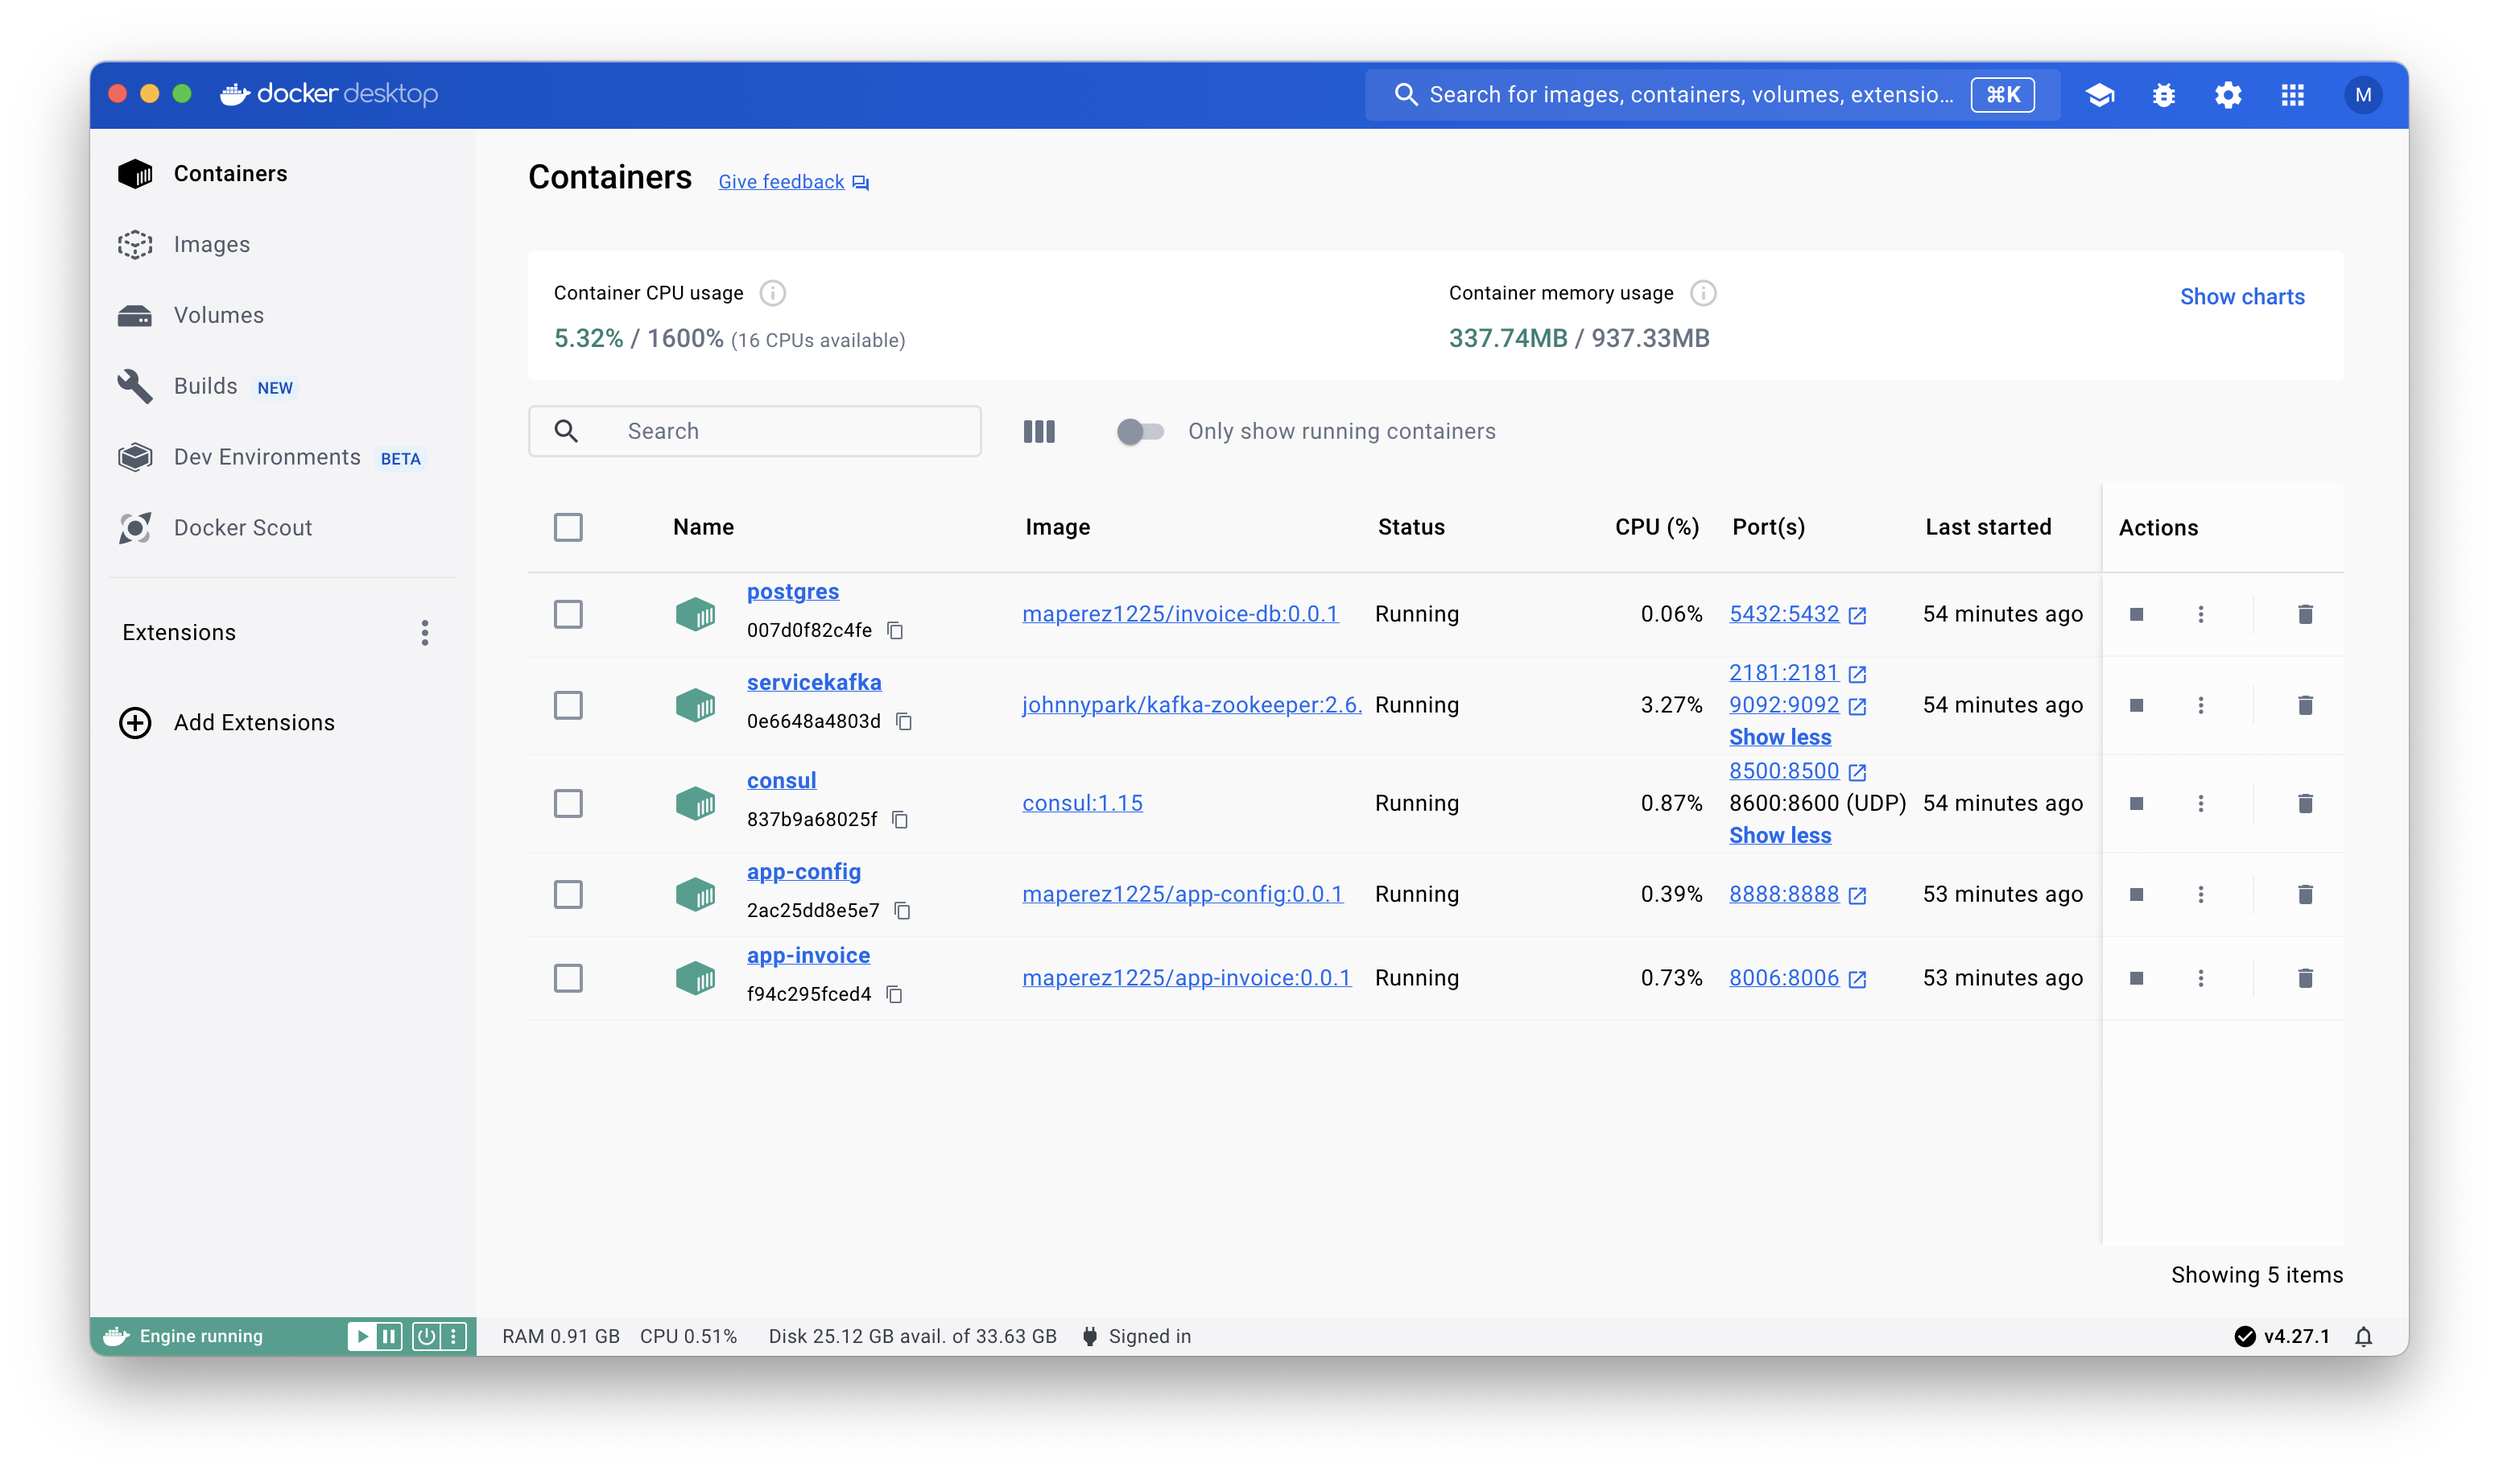
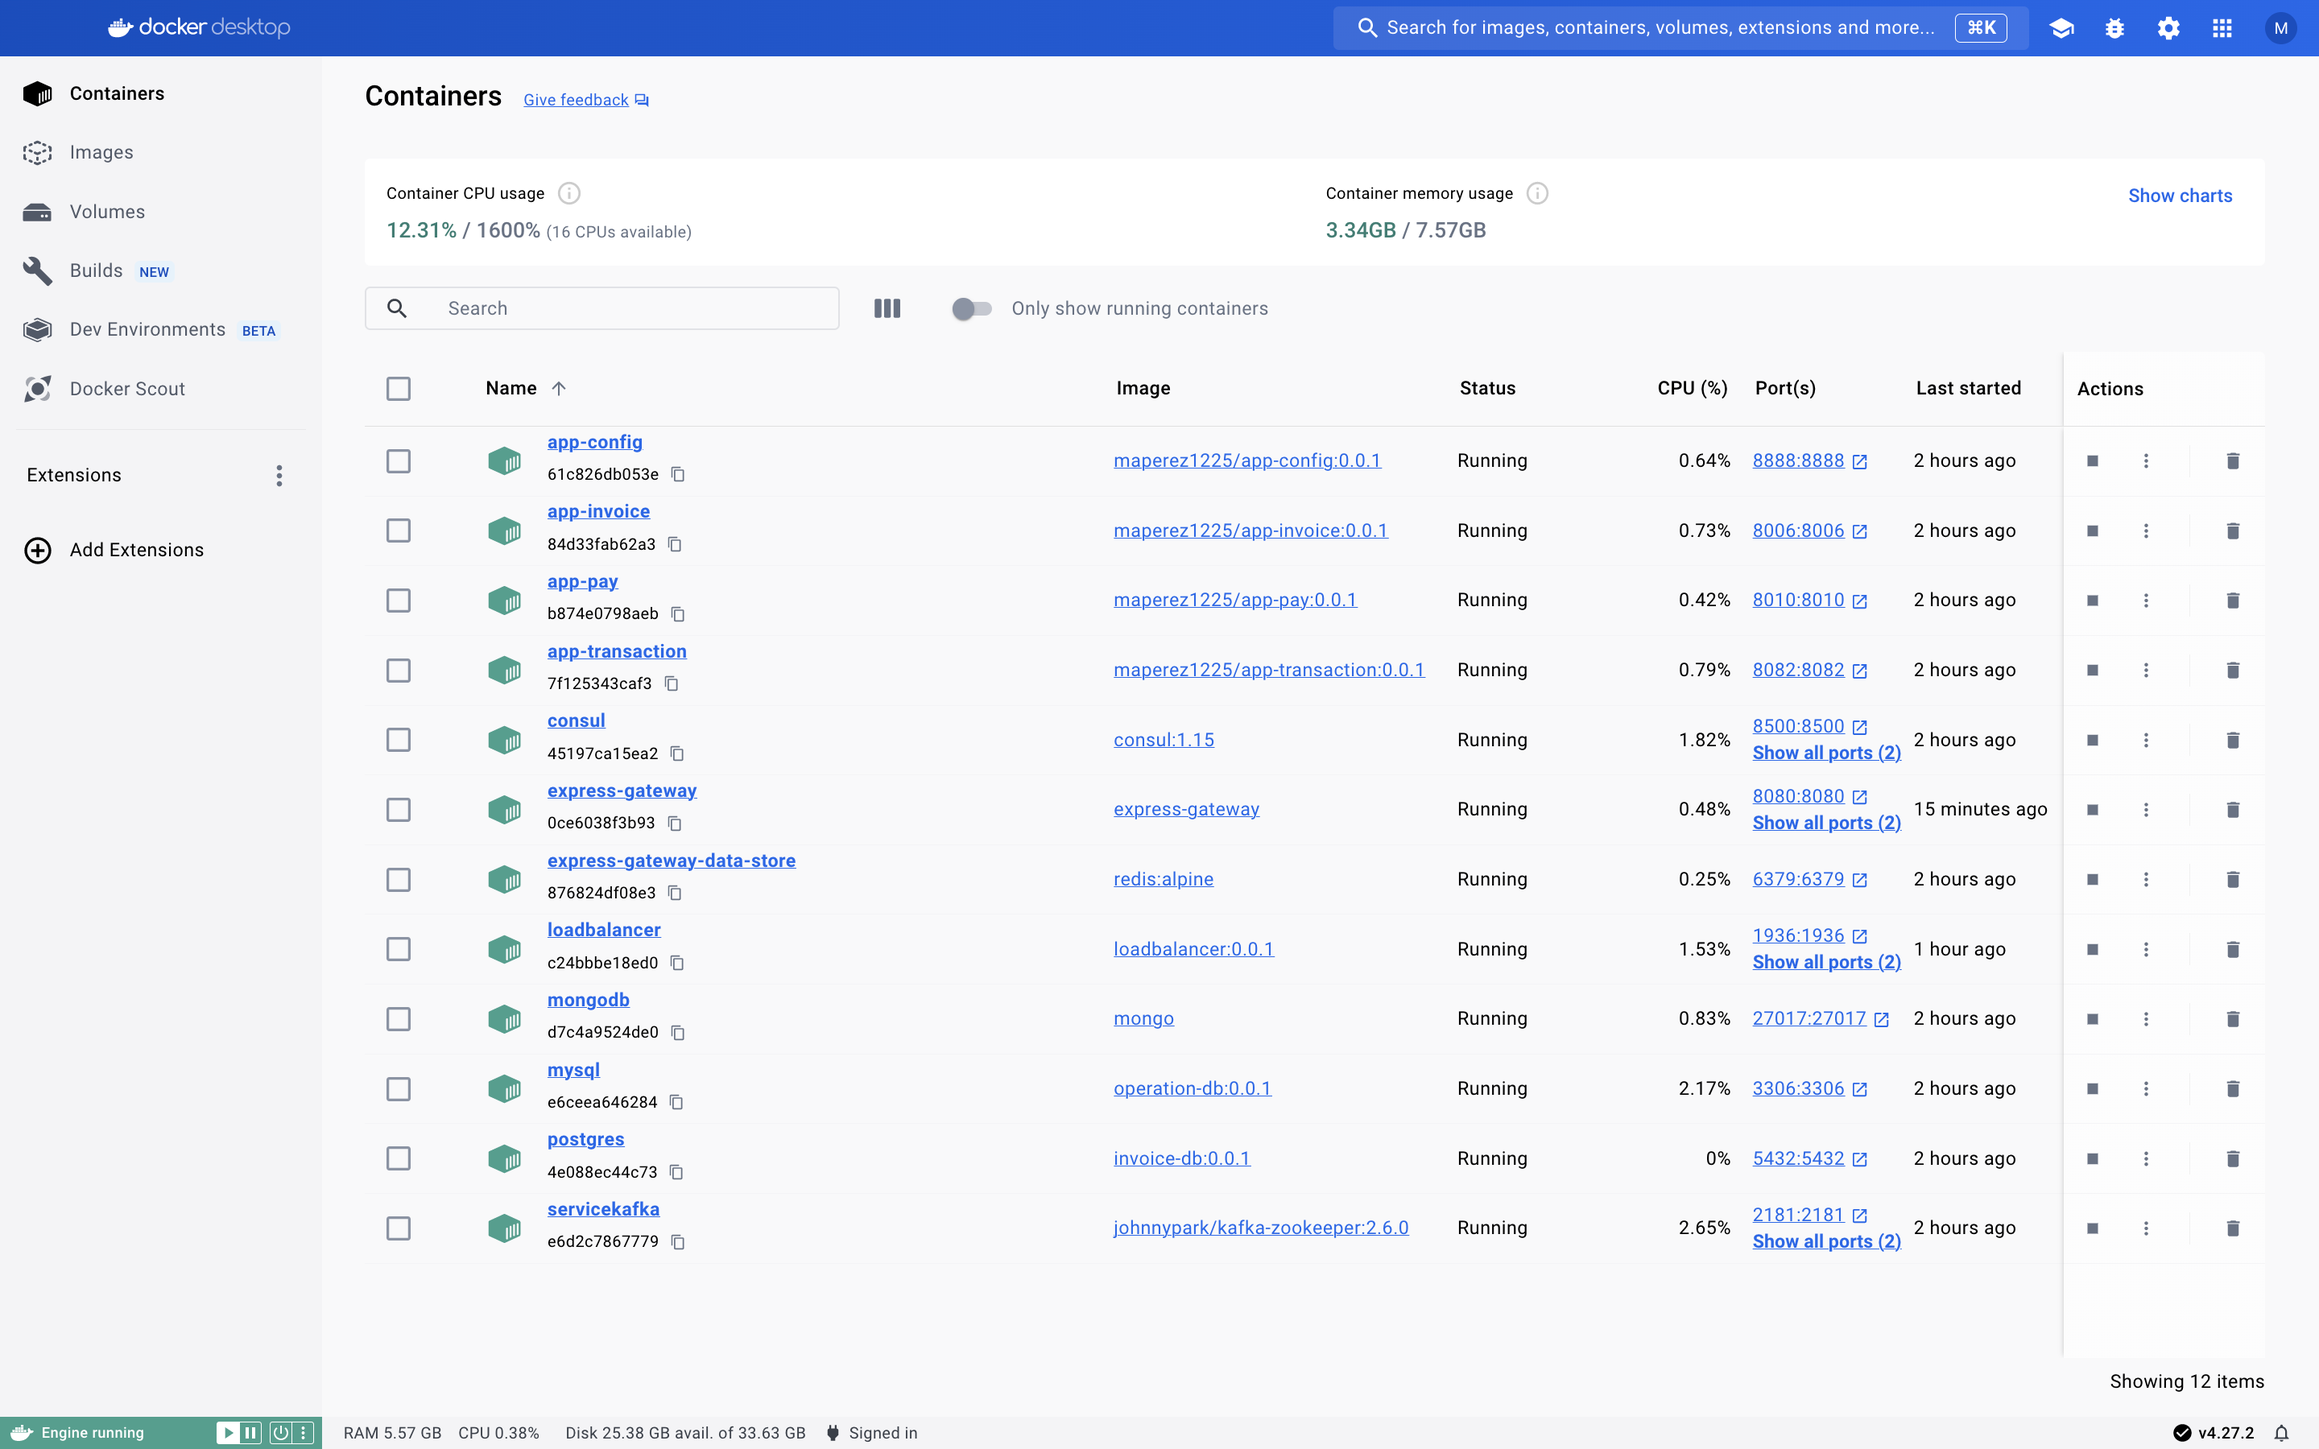
App gateway documentation

diff --git a/README.md b/README.md
@@ -4,10 +4,24 @@ Create load balancer image in haproxy/
 `docker build -t loadbalancer:0.0.1 .`
 
 Run redis db for app gateway
+
 `docker run -d --rm -p 6379:6379 --network distribuidos --name express-gateway-data-store redis:alpine`
 
 Run app gateway
 
+`docker run -d --rm --name express-gateway --network distribuidos -p 8080:8080 -p 9876:9876 -v ./appgw:/var/lib/eg express-gateway`
+
+Obtain API key from Express Gateway terminal
+
+`eg credentials create -c [user] -t key-auth -q`
+
+Curl API endpoint with key
+
+`curl -H "Authorization: apiKey ${keyId}:${keySecret}" http://localhost:8080/config/app-pay/dev`
+![alt text](resources/appgw.png)
+
+Containers running
+![alt text](resources/containers.png)
 
 # sd-workshop4 2024-1
 

diff --git a/commands.md b/commands.md
@@ -18,7 +18,7 @@ docker run -d --rm --name app-pay --network distribuidos -p 8010:8010 maperez122
 
 docker run -d --rm --name app-transaction --network distribuidos -p 8082:8082 maperez1225/app-transaction:0.0.1;
 
-docker run -d --rm --name haproxy --network distribuidos -p 1936:1936 loadbalancer:0.0.1;
+docker run -d --rm --name loadbalancer --network distribuidos -p 1936:1936 -p 80:80 loadbalancer:0.0.1;
 
 docker run -d --rm --name express-gateway-data-store --network distribuidos -p 6379:6379 redis:alpine;
 
